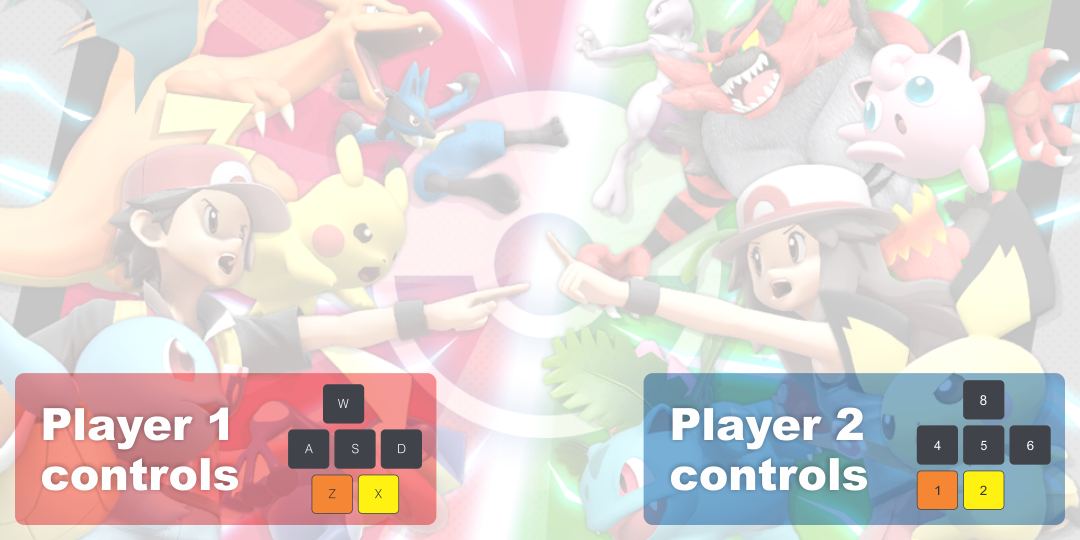
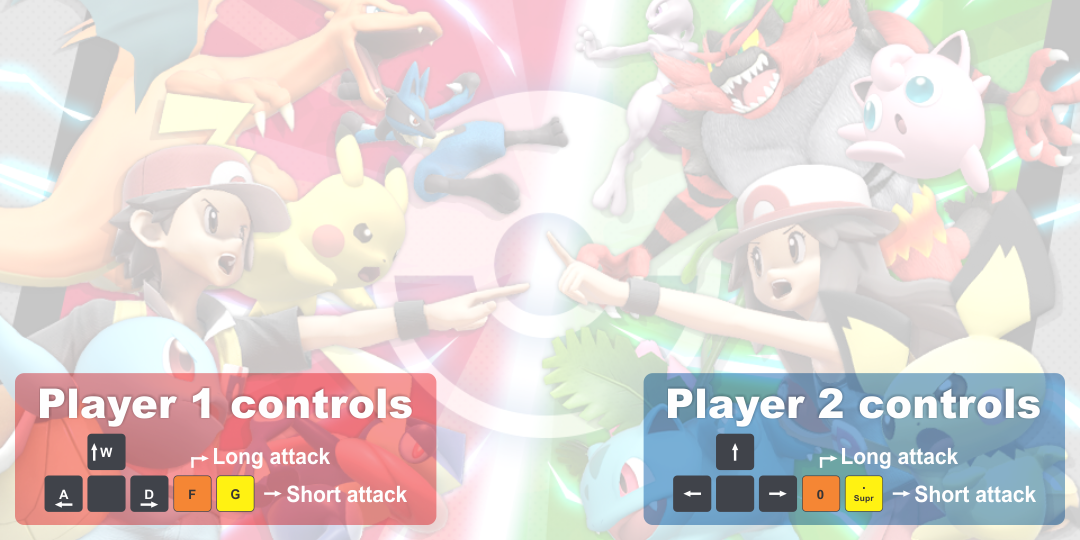
Final 1.0

Changed region(s): [[0.6111, 0.6815, 0.9778, 0.9481], [0.0306, 0.7111, 0.3972, 0.9778]]

diff --git a/assets/js/player2.js b/assets/js/player2.js
@@ -241,7 +241,7 @@ class Player2 {
         this.vx = 0
         this.img.src = `${this.char.slimage}`
         break;
-      case FIN:
+      case CERO:
         if (this.shootTime > 25) {
           this.shootTime = 0
           this.char.shootAudio.load()
@@ -249,7 +249,7 @@ class Player2 {
           this.char.shootAudio.play()
         }
         break;
-      case DOWN:
+      case PUNTO:
         this.punch()        
         break;
     }

diff --git a/assets/js/player1.js b/assets/js/player1.js
@@ -241,7 +241,7 @@ class Player1 {
         this.vx = 0
         this.img.src = `${this.char.slimage}`
         break;
-      case Z:
+      case F:
         if (this.shootTime > 25) {
           this.shootTime = 0
           this.char.shootAudio.load()
@@ -249,7 +249,7 @@ class Player1 {
           this.char.shootAudio.play()
         }
         break;
-      case X:
+      case G:
         this.punch()
         break;
     }

diff --git a/assets/js/constants.js b/assets/js/constants.js
@@ -1,11 +1,11 @@
-const UP = 104
-const RIGHT = 102
-const LEFT = 100
-const DOWN = 98
-const FIN = 97
+const UP = 38
+const RIGHT = 39
+const LEFT = 37
+const CERO = 96
+const PUNTO = 110
 const W = 87
 const D = 68
 const A = 65
-const X = 88
-const Z = 90
+const F = 70
+const G = 71
 
